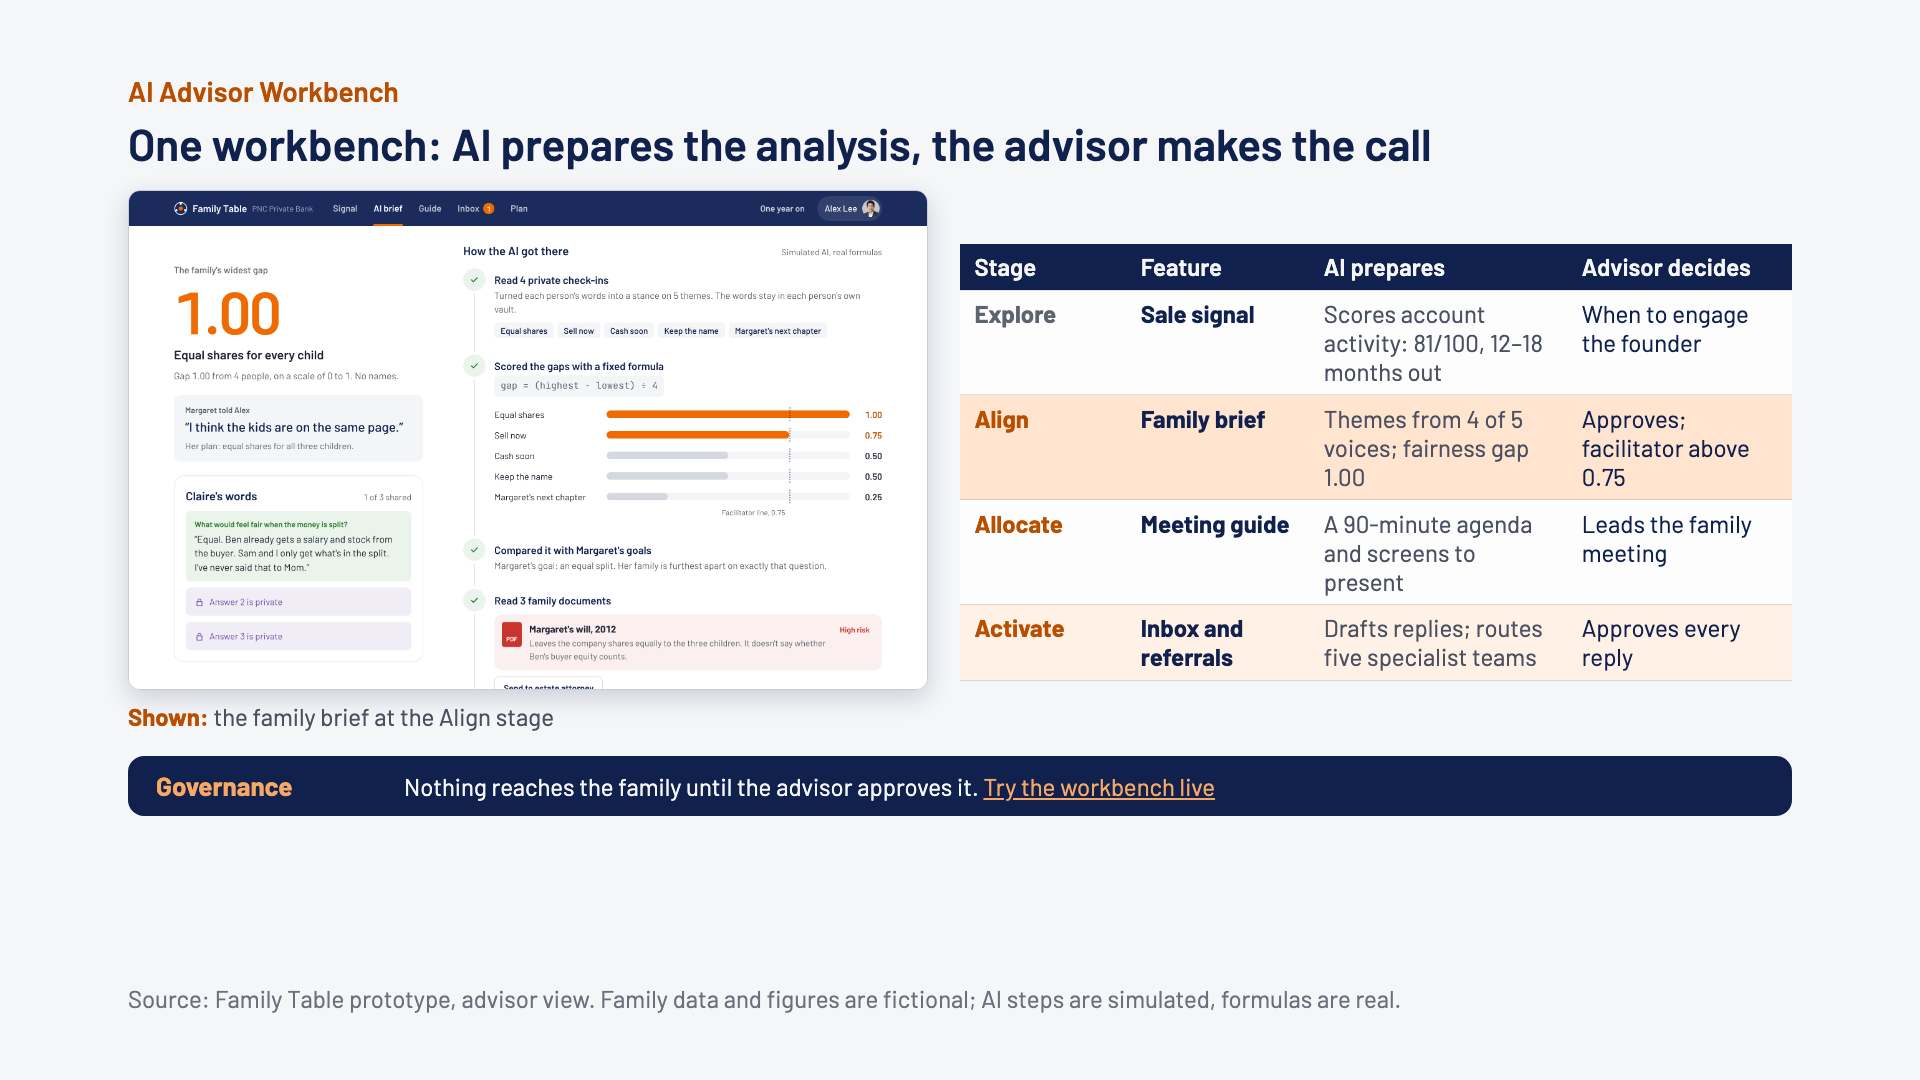
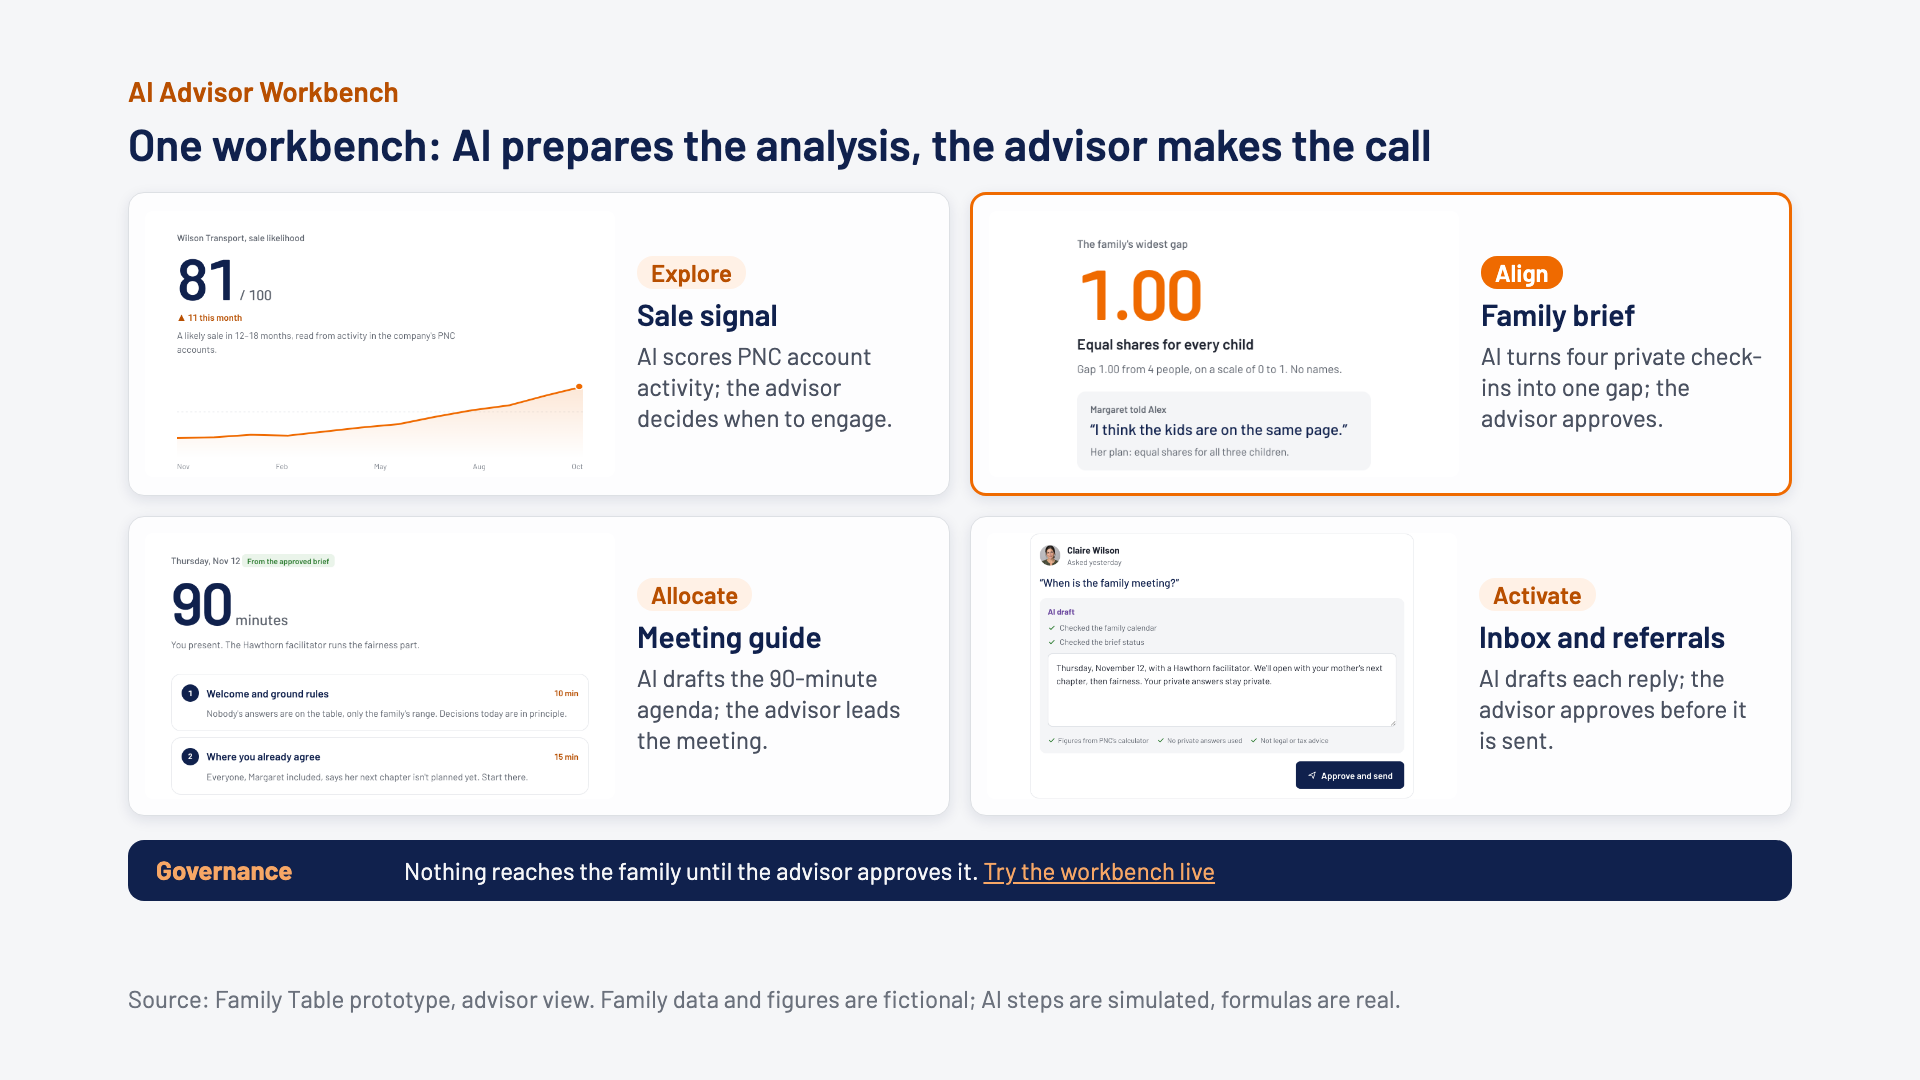
Advisor slide: 2x2 cards, each one screen crop and one explanation

diff --git a/slides/claude_three/slides/advisor.html b/slides/claude_three/slides/advisor.html
@@ -1,25 +1,43 @@
-<section id="advisor" data-transition="fade" style="background:#F5F6F8;color:#10214D;font-family:'Barlow', Arial, sans-serif;padding:72px 128px 160px;display:flex;flex-direction:column;gap:22px">
+<section id="advisor" data-transition="fade" style="background:#F5F6F8;color:#10214D;font-family:'Barlow', Arial, sans-serif;padding:72px 128px 160px;display:flex;flex-direction:column;gap:24px">
 <div style="display:flex;flex-direction:column;gap:8px">
 <p style="font-size:28px;font-weight:600;color:#B84F00">AI Advisor Workbench</p>
 <h2 style="font-size:44px;font-weight:600;line-height:1.12;color:#10214D">One workbench: AI prepares the analysis, the advisor makes the call</h2>
 </div>
-<div style="display:flex;flex-direction:row;gap:32px;align-items:center">
-<div style="display:flex;flex-direction:column;gap:10px">
-<img src="/_blob/6eb613845ab2e6ec5be912857ccf9d0f" alt="The advisor's AI brief: widest gap 1.00 on equal shares, Margaret's quote that the kids agree, Claire's one shared answer, and the AI's traceable steps with gap bars against a 0.75 facilitator line" style="width:800px;height:500px;object-fit:cover;object-position:top;border:1px solid #C9CED6;border-radius:12px;box-shadow:0px 8px 24px rgba(16,33,77,0.18)">
-<p style="font-size:24px;color:#4A5160"><b style="color:#B84F00">Shown:</b> the family brief at the Align stage</p>
+<div style="display:grid;grid-template-columns:1fr 1fr;gap:20px">
+<div style="display:flex;flex-direction:row;gap:22px;align-items:center;background:#FDFDFE;border:1px solid #DDE0E4;border-radius:16px;padding:16px 22px 16px 16px;box-shadow:0px 4px 14px rgba(16,33,77,0.10)">
+<img src="/_blob/58ee1a13f640708131746748c3524ca7" alt="Signal screen: Wilson Transport sale likelihood 81 out of 100, up 11 this month, with a 12-month trend" style="width:470px;height:266px;object-fit:contain;background:#FFFFFF;border-radius:8px">
+<div style="flex:1;display:flex;flex-direction:column;gap:8px">
+<div style="display:flex;flex-direction:row"><p style="font-size:24px;font-weight:600;color:#B84F00;background:#FFF1E6;padding:0px 14px;border-radius:16px">Explore</p></div>
+<h3 style="font-size:30px;font-weight:600;line-height:1.15;color:#10214D">Sale signal</h3>
+<p style="font-size:24px;line-height:1.3;color:#4A5160">AI scores PNC account activity; the advisor decides when to engage.</p>
 </div>
-<table style="width:832px;font-family:'Barlow', Arial, sans-serif;font-size:24px;color:#10214D">
-<tr style="background:#10214D"><th style="width:20%;color:#F5F6F8">Stage</th><th style="width:22%;color:#F5F6F8">Feature</th><th style="width:31%;color:#F5F6F8">AI prepares</th><th style="width:27%;color:#F5F6F8">Advisor decides</th></tr>
-<tr style="background:#FDFDFE"><td style="color:#5E646E"><b>Explore</b></td><td><b>Sale signal</b></td><td style="color:#4A5160">Scores account activity: 81/100, 12–18 months out</td><td>When to engage the founder</td></tr>
-<tr style="background:#FFE4CF"><td style="color:#B84F00"><b>Align</b></td><td><b>Family brief</b></td><td style="color:#4A5160">Themes from 4 of 5 voices; fairness gap 1.00</td><td>Approves; facilitator above 0.75</td></tr>
-<tr style="background:#FDFDFE"><td style="color:#B84F00"><b>Allocate</b></td><td><b>Meeting guide</b></td><td style="color:#4A5160">A 90-minute agenda and screens to present</td><td>Leads the family meeting</td></tr>
-<tr style="background:#FFF1E6"><td style="color:#B84F00"><b>Activate</b></td><td><b>Inbox and referrals</b></td><td style="color:#4A5160">Drafts replies; routes five specialist teams</td><td>Approves every reply</td></tr>
-</table>
+</div><div style="display:flex;flex-direction:row;gap:22px;align-items:center;background:#FDFDFE;border:3px solid #EF6A00;border-radius:16px;padding:16px 22px 16px 16px;box-shadow:0px 4px 14px rgba(16,33,77,0.10)">
+<img src="/_blob/2113e9304141c0d1798dc6f1a4e33cd8" alt="Family brief: widest gap 1.00 on equal shares, against Margaret's belief that the kids agree" style="width:470px;height:266px;object-fit:contain;background:#FFFFFF;border-radius:8px">
+<div style="flex:1;display:flex;flex-direction:column;gap:8px">
+<div style="display:flex;flex-direction:row"><p style="font-size:24px;font-weight:600;color:#FFFFFF;background:#EF6A00;padding:0px 14px;border-radius:16px">Align</p></div>
+<h3 style="font-size:30px;font-weight:600;line-height:1.15;color:#10214D">Family brief</h3>
+<p style="font-size:24px;line-height:1.3;color:#4A5160">AI turns four private check-ins into one gap; the advisor approves.</p>
+</div>
+</div><div style="display:flex;flex-direction:row;gap:22px;align-items:center;background:#FDFDFE;border:1px solid #DDE0E4;border-radius:16px;padding:16px 22px 16px 16px;box-shadow:0px 4px 14px rgba(16,33,77,0.10)">
+<img src="/_blob/fb12e14380d354a461967b4ff4604a51" alt="Meeting guide: a 90-minute agenda from the approved brief, starting with ground rules and common ground" style="width:470px;height:266px;object-fit:contain;background:#FFFFFF;border-radius:8px">
+<div style="flex:1;display:flex;flex-direction:column;gap:8px">
+<div style="display:flex;flex-direction:row"><p style="font-size:24px;font-weight:600;color:#B84F00;background:#FFF1E6;padding:0px 14px;border-radius:16px">Allocate</p></div>
+<h3 style="font-size:30px;font-weight:600;line-height:1.15;color:#10214D">Meeting guide</h3>
+<p style="font-size:24px;line-height:1.3;color:#4A5160">AI drafts the 90-minute agenda; the advisor leads the meeting.</p>
+</div>
+</div><div style="display:flex;flex-direction:row;gap:22px;align-items:center;background:#FDFDFE;border:1px solid #DDE0E4;border-radius:16px;padding:16px 22px 16px 16px;box-shadow:0px 4px 14px rgba(16,33,77,0.10)">
+<img src="/_blob/54e52f79e38be040c37e5b6bae19241b" alt="Inbox: Claire's question with an AI-drafted reply, its checks, and an Approve and send button" style="width:470px;height:266px;object-fit:contain;background:#FFFFFF;border-radius:8px">
+<div style="flex:1;display:flex;flex-direction:column;gap:8px">
+<div style="display:flex;flex-direction:row"><p style="font-size:24px;font-weight:600;color:#B84F00;background:#FFF1E6;padding:0px 14px;border-radius:16px">Activate</p></div>
+<h3 style="font-size:30px;font-weight:600;line-height:1.15;color:#10214D">Inbox and referrals</h3>
+<p style="font-size:24px;line-height:1.3;color:#4A5160">AI drafts each reply; the advisor approves before it is sent.</p>
+</div>
+</div>
 </div>
 <div style="display:flex;flex-direction:row;gap:28px;align-items:center;background:#10214D;border-radius:16px;padding:12px 28px">
 <p style="width:220px;font-size:26px;font-weight:700;color:#F7A766">Governance</p>
-<p style="flex:1;font-size:24px;line-height:1.3;color:#F5F6F8">Nothing reaches the family until the advisor approves it. <a href="https://rzrizaldy.github.io/pnc_csl_2026/prototype/?reset#/advisor/align" style="color:#F7A766">Try the workbench live</a></p>
+<p style="flex:1;font-size:24px;line-height:1.3;color:#F5F6F8">Nothing reaches the family until the advisor approves it. <a href="https://rzrizaldy.github.io/pnc_csl_2026/prototype/?reset#/advisor" style="color:#F7A766">Try the workbench live</a></p>
 </div>
 <p style="position:absolute;left:128px;bottom:64px;width:1664px;font-size:24px;color:#6B717C">Source: Family Table prototype, advisor view. Family data and figures are fictional; AI steps are simulated, formulas are real.</p>
-<aside>One workbench, four features, one per stage; the screen shows the family brief at the Align stage. Read the table across: what the AI prepares, and what the advisor decides. In Explore, the sale signal scores PNC’s own business-account activity and flags a likely sale twelve to eighteen months out; the advisor decides when to engage the founder. In Align, the family brief turns four of five private check-ins into themes with no names; the widest divergence is fairness, at 1.00, scored by a fixed formula; the advisor approves the brief and brings in a Hawthorn facilitator above 0.75. In Allocate, the meeting guide drafts a 90-minute agenda and presentation screens; the advisor leads the meeting. In Activate, the inbox drafts replies and routes work to five specialist teams; the advisor approves every reply. Governance holds throughout: nothing reaches the family until the advisor approves it.</aside>
+<aside>One workbench, four features, one per stage, each shown by the part of the screen that matters. Explore: the sale signal scores PNC’s own business-account activity, 81 out of 100, twelve to eighteen months before closing; the advisor decides when to engage the founder. Align: the family brief turns four of five private check-ins into themes with no names; the widest divergence is fairness, at 1.00, against Margaret’s belief that her children agree; the advisor approves the brief and brings in a Hawthorn facilitator above 0.75. Allocate: the meeting guide drafts a 90-minute agenda from the approved brief; the advisor leads the meeting. Activate: the inbox drafts each reply from the plan and the calculator, runs privacy and advice checks, and waits for the advisor to approve before it is sent. Governance holds throughout: nothing reaches the family until the advisor approves it.</aside>
 </section>

diff --git a/video/src/slides_check.js b/video/src/slides_check.js
@@ -9,6 +9,10 @@ const BIN = path.join(process.env.HOME, "Library/Caches/ms-playwright/chromium_h
 const [root, out] = process.argv.slice(2);
 const SHOTS = path.join(__dirname, "../../prototype/shots");
 const BLOBS = {
+  "58ee1a13f640708131746748c3524ca7": "../../slides/claude_three/crops/c1_signal.png",
+  "2113e9304141c0d1798dc6f1a4e33cd8": "../../slides/claude_three/crops/c2_brief.png",
+  "fb12e14380d354a461967b4ff4604a51": "../../slides/claude_three/crops/c3_guide.png",
+  "54e52f79e38be040c37e5b6bae19241b": "../../slides/claude_three/crops/c4_inbox.png",
   "32a7d7b5739777e6ece383f8cfb8f7f7": "../../slides/canva/raw/d1_signal.png",
   "6eb613845ab2e6ec5be912857ccf9d0f": "../../slides/claude_three/raw_land/brief_hero.png",
   "7a443fab7cc85da3af9e053f8f822af8": "../../slides/claude_three/raw_land/p3_checkin.png",
